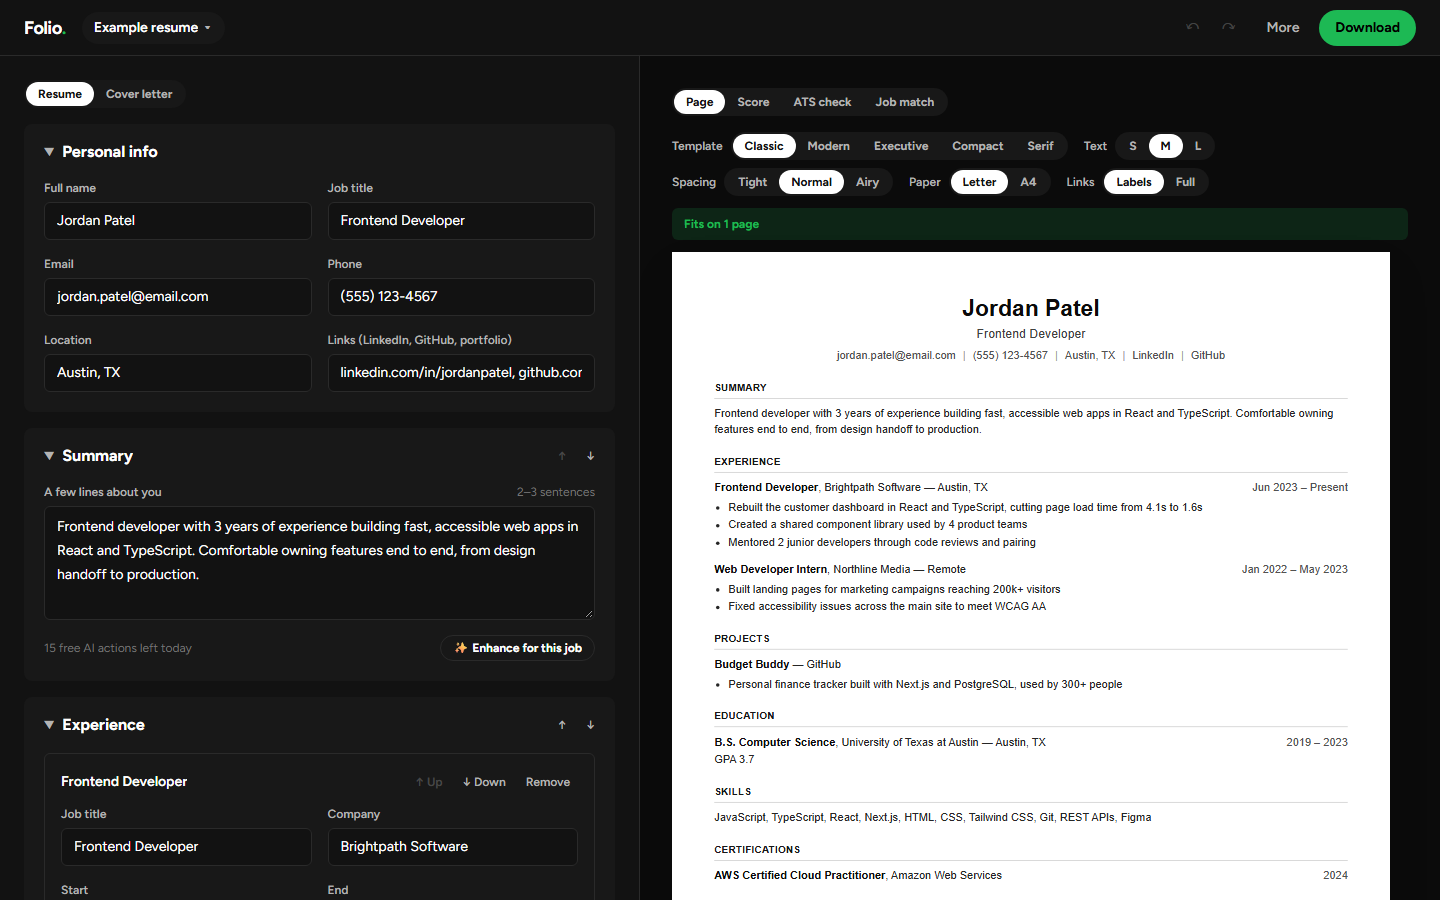
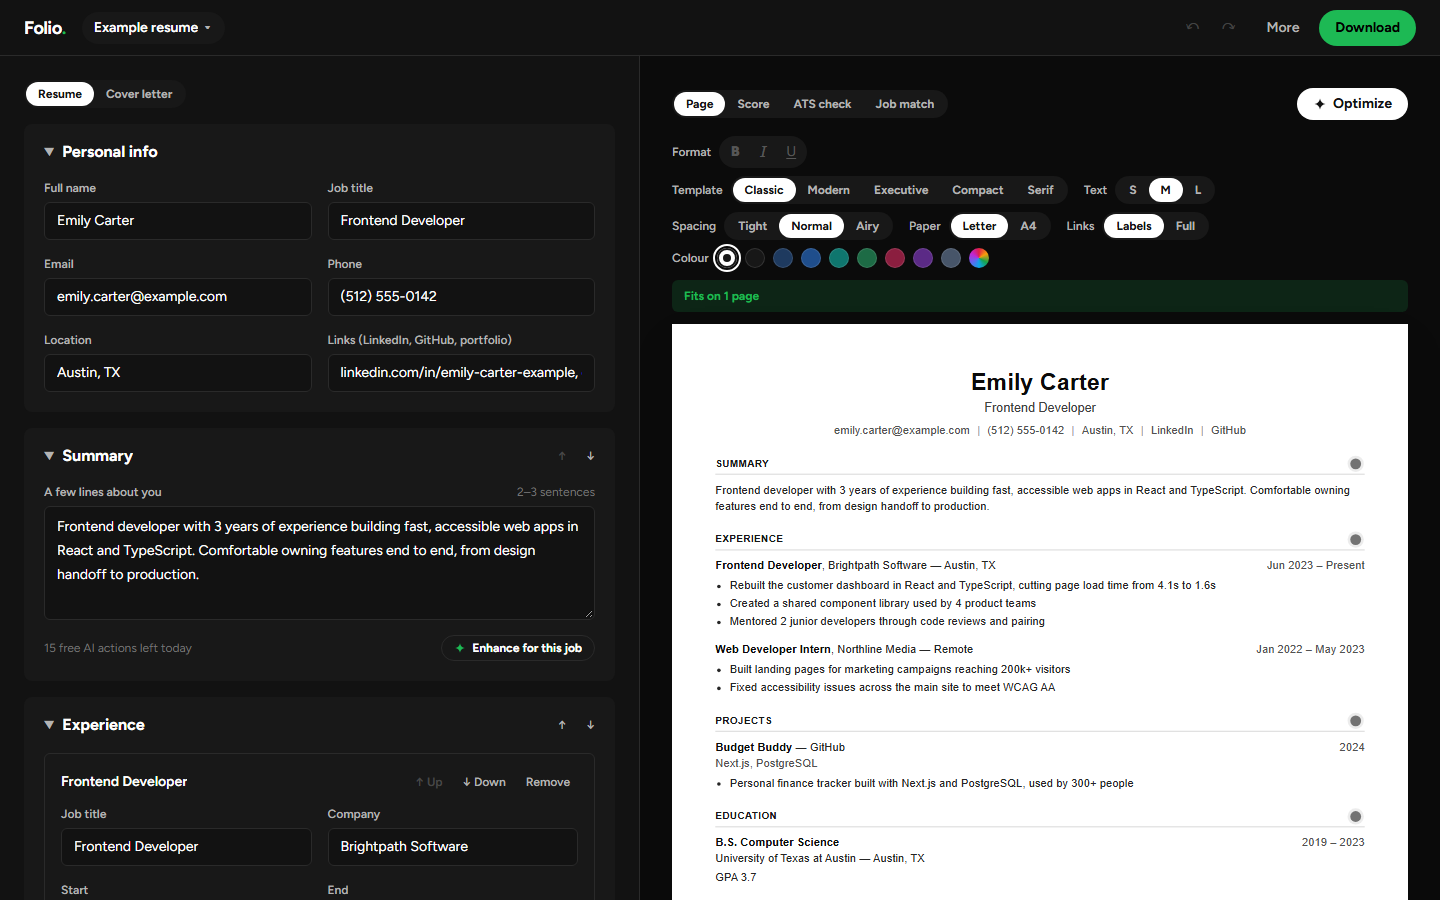
Example resume for a fictional Emily Carter, fresh screenshots, README up to date
- The example person is now Emily Carter, with contact details that can't belong to anyone:
  an example.com email, a 555-01xx phone number and profile links that don't exist
- New home page and README screenshots showing the current editor
- README lists Optimize, editing on the page like Word, heading colours and renamable
  sections, and earlier Enhance versions

diff --git a/lib/links.test.ts b/lib/links.test.ts
@@ -27,24 +27,24 @@ describe("linkKey", () => {
 
 describe("linkHref", () => {
   it("adds https:// when it's missing and keeps it when it's there", () => {
-    expect(linkHref("linkedin.com/in/jordan")).toBe("https://linkedin.com/in/jordan");
-    expect(linkHref("https://github.com/jordan")).toBe("https://github.com/jordan");
+    expect(linkHref("linkedin.com/in/emily")).toBe("https://linkedin.com/in/emily");
+    expect(linkHref("https://github.com/emily")).toBe("https://github.com/emily");
     expect(linkHref("http://old-site.com")).toBe("http://old-site.com");
   });
 });
 
 describe("linkLabel", () => {
   it("names well-known sites", () => {
-    expect(linkLabel("linkedin.com/in/jordan")).toBe("LinkedIn");
-    expect(linkLabel("https://www.linkedin.com/in/jordan-patel-4a7b2c19/")).toBe("LinkedIn");
+    expect(linkLabel("linkedin.com/in/emily")).toBe("LinkedIn");
+    expect(linkLabel("https://www.linkedin.com/in/emily-carter-4a7b2c19/")).toBe("LinkedIn");
     expect(linkLabel("in.linkedin.com/in/ravi")).toBe("LinkedIn");
-    expect(linkLabel("github.com/jordan/budget-buddy")).toBe("GitHub");
-    expect(linkLabel("https://twitter.com/jordan")).toBe("X");
-    expect(linkLabel("kaggle.com/jordan")).toBe("Kaggle");
+    expect(linkLabel("github.com/emily/budget-buddy")).toBe("GitHub");
+    expect(linkLabel("https://twitter.com/emily")).toBe("X");
+    expect(linkLabel("kaggle.com/emily")).toBe("Kaggle");
   });
 
   it("uses the domain name for anything else", () => {
-    expect(linkLabel("jordanpatel.dev")).toBe("jordanpatel.dev");
+    expect(linkLabel("emilycarter.dev")).toBe("emilycarter.dev");
     expect(linkLabel("https://www.budgetbuddy.app/demo")).toBe("budgetbuddy.app");
   });
 
@@ -55,31 +55,31 @@ describe("linkLabel", () => {
 
 describe("splitLinks and linkDisplay", () => {
   it("splits several links in one field", () => {
-    expect(splitLinks("linkedin.com/in/jordan, github.com/jordan  jordan.dev")).toEqual([
-      "linkedin.com/in/jordan",
-      "github.com/jordan",
-      "jordan.dev",
+    expect(splitLinks("linkedin.com/in/emily, github.com/emily  emily.dev")).toEqual([
+      "linkedin.com/in/emily",
+      "github.com/emily",
+      "emily.dev",
     ]);
     expect(splitLinks("")).toEqual([]);
   });
 
   it("shows a full address without https://, www. or a trailing slash", () => {
-    expect(linkDisplay("https://www.linkedin.com/in/jordan/")).toBe("linkedin.com/in/jordan");
+    expect(linkDisplay("https://www.linkedin.com/in/emily/")).toBe("linkedin.com/in/emily");
   });
 });
 
 describe("resumeLinks", () => {
-  const field = "linkedin.com/in/jordan, https://github.com/jordan";
+  const field = "linkedin.com/in/emily, https://github.com/emily";
 
   it("gives short labels that open the full address", () => {
     expect(resumeLinks(field, "label")).toEqual([
-      { text: "LinkedIn", href: "https://linkedin.com/in/jordan" },
-      { text: "GitHub", href: "https://github.com/jordan" },
+      { text: "LinkedIn", href: "https://linkedin.com/in/emily" },
+      { text: "GitHub", href: "https://github.com/emily" },
     ]);
   });
 
   it("can show the full addresses instead", () => {
-    expect(resumeLinks(field, "url").map((l) => l.text)).toEqual(["linkedin.com/in/jordan", "github.com/jordan"]);
+    expect(resumeLinks(field, "url").map((l) => l.text)).toEqual(["linkedin.com/in/emily", "github.com/emily"]);
   });
 });
 

diff --git a/lib/coverletter.test.ts b/lib/coverletter.test.ts
@@ -13,7 +13,7 @@ describe("cover letter", () => {
     const resume = createSampleResume();
     resume.target = { description: "We need React skills", title: "Frontend Engineer", company: "Acme", keywords: [] };
     const request = coverLetterRequest(resume);
-    expect(request.resumeText).toContain("JORDAN PATEL");
+    expect(request.resumeText).toContain("EMILY CARTER");
     expect(request.company).toBe("Acme");
   });
 
@@ -40,15 +40,15 @@ describe("cover letter", () => {
   });
 
   it("joins paragraphs and cleans look-alike characters", () => {
-    const raw = JSON.stringify({ paragraphs: ["Dear Hiring Manager,", "I’m applying for the front‑end role.", "Sincerely,\nJordan"] });
-    expect(parseCoverLetter(raw)).toBe("Dear Hiring Manager,\n\nI'm applying for the front-end role.\n\nSincerely,\nJordan");
+    const raw = JSON.stringify({ paragraphs: ["Dear Hiring Manager,", "I’m applying for the front‑end role.", "Sincerely,\nEmily"] });
+    expect(parseCoverLetter(raw)).toBe("Dear Hiring Manager,\n\nI'm applying for the front-end role.\n\nSincerely,\nEmily");
   });
 
   it("puts the greeting and sign-off in their own paragraphs", () => {
-    const glued = JSON.stringify({ paragraphs: ["Dear Hiring Manager, I am applying.", "Thanks for your time. Sincerely,\nJordan"] });
-    expect(parseCoverLetter(glued)).toBe("Dear Hiring Manager,\n\nI am applying.\n\nThanks for your time.\n\nSincerely,\nJordan");
-    const split = JSON.stringify({ paragraphs: ["Dear Hiring Manager,", "Thanks for your time.\nSincerely,\nJordan"] });
-    expect(parseCoverLetter(split)).toBe("Dear Hiring Manager,\n\nThanks for your time.\n\nSincerely,\nJordan");
+    const glued = JSON.stringify({ paragraphs: ["Dear Hiring Manager, I am applying.", "Thanks for your time. Sincerely,\nEmily"] });
+    expect(parseCoverLetter(glued)).toBe("Dear Hiring Manager,\n\nI am applying.\n\nThanks for your time.\n\nSincerely,\nEmily");
+    const split = JSON.stringify({ paragraphs: ["Dear Hiring Manager,", "Thanks for your time.\nSincerely,\nEmily"] });
+    expect(parseCoverLetter(split)).toBe("Dear Hiring Manager,\n\nThanks for your time.\n\nSincerely,\nEmily");
   });
 
   it("asks the fact-checker to strike unsupported details and keep the rest", () => {

diff --git a/lib/export/pdf.test.tsx b/lib/export/pdf.test.tsx
@@ -19,8 +19,8 @@ describe("resume PDF", () => {
       const { text, totalPages } = await readBack(ResumeDocument({ resume, paper: "letter" }));
 
       expect(totalPages).toBe(1);
-      expect(text).toContain("Jordan Patel");
-      expect(text).toContain("jordan.patel@email.com");
+      expect(text).toContain("Emily Carter");
+      expect(text).toContain("emily.carter@example.com");
       expect(text).toContain("cutting page load time from 4.1s to 1.6s");
       expect(text).toContain("AWS Certified Cloud Practitioner");
 
@@ -81,10 +81,10 @@ describe("links in the PDF", () => {
     expect(text).not.toContain("linkedin.com/in");
     expect(links).toEqual(
       expect.arrayContaining([
-        "mailto:jordan.patel@email.com",
-        "https://linkedin.com/in/jordanpatel",
-        "https://github.com/jordanpatel",
-        "https://github.com/jordanpatel/budget-buddy",
+        "mailto:emily.carter@example.com",
+        "https://linkedin.com/in/emily-carter-example",
+        "https://github.com/emily-carter-example",
+        "https://github.com/emily-carter-example/budget-buddy",
       ]),
     );
   });
@@ -93,17 +93,17 @@ describe("links in the PDF", () => {
     const sample = createSampleResume();
     const resume = { ...sample, style: { ...sample.style, links: "url" as const } };
     const { text } = await readBack(ResumeDocument({ resume, paper: "letter" }));
-    expect(text).toContain("linkedin.com/in/jordanpatel");
+    expect(text).toContain("linkedin.com/in/emily-carter-example");
   });
 });
 
 describe("cover letter PDF", () => {
   it("contains the name and every paragraph", async () => {
     const resume = createSampleResume();
-    resume.coverLetter = "Dear Hiring Manager,\n\nI am applying for the role.\n\nSincerely,\nJordan Patel";
+    resume.coverLetter = "Dear Hiring Manager,\n\nI am applying for the role.\n\nSincerely,\nEmily Carter";
     const { text } = await readBack(CoverLetterDocument({ resume, paper: "letter" }));
     expect(text).toContain("Dear Hiring Manager,");
     expect(text).toContain("I am applying for the role.");
-    expect(text.match(/Jordan Patel/g)?.length).toBe(2);
+    expect(text.match(/Emily Carter/g)?.length).toBe(2);
   });
 });

diff --git a/lib/export/docx.test.ts b/lib/export/docx.test.ts
@@ -18,8 +18,8 @@ describe("Word export", () => {
       const sample = createSampleResume();
       const resume = { ...sample, style: { ...sample.style, template } };
       const text = await wordText(resumeDocx(resume, "letter"));
-      expect(text).toContain("Jordan Patel");
-      expect(text).toContain("jordan.patel@email.com");
+      expect(text).toContain("Emily Carter");
+      expect(text).toContain("emily.carter@example.com");
       expect(text).toContain("Brightpath Software");
       expect(text).toContain("cutting page load time from 4.1s to 1.6s");
       expect(text).toContain("AWS Certified Cloud Practitioner");
@@ -50,13 +50,13 @@ describe("Word export", () => {
     const { default: JSZip } = await import("jszip");
     const zip = await JSZip.loadAsync(await Packer.toBuffer(resumeDocx(createSampleResume(), "letter")));
     const rels = await zip.file("word/_rels/document.xml.rels")!.async("string");
-    expect(rels).toContain('Target="https://linkedin.com/in/jordanpatel"');
-    expect(rels).toContain('Target="https://github.com/jordanpatel/budget-buddy"');
+    expect(rels).toContain('Target="https://linkedin.com/in/emily-carter-example"');
+    expect(rels).toContain('Target="https://github.com/emily-carter-example/budget-buddy"');
   });
 
   it("writes the cover letter paragraphs", async () => {
     const resume = createSampleResume();
-    resume.coverLetter = "Dear Hiring Manager,\n\nI am applying for the role.\n\nSincerely,\nJordan Patel";
+    resume.coverLetter = "Dear Hiring Manager,\n\nI am applying for the role.\n\nSincerely,\nEmily Carter";
     const text = await wordText(coverLetterDocx(resume, "a4"));
     expect(text).toContain("Dear Hiring Manager,");
     expect(text).toContain("I am applying for the role.");

diff --git a/components/builder/Editor.tsx b/components/builder/Editor.tsx
@@ -327,14 +327,14 @@ export default function Editor({
     <div className="space-y-4">
       <Card title="Personal info">
         <div className="grid gap-4 sm:grid-cols-2">
-          <Field label="Full name" value={basics.name} onChange={(v) => setBasics({ name: v })} placeholder="Jordan Patel" />
+          <Field label="Full name" value={basics.name} onChange={(v) => setBasics({ name: v })} placeholder="Emily Carter" />
           <Field label="Job title" value={basics.title} onChange={(v) => setBasics({ title: v })} placeholder="Frontend Developer" />
           <Field
             label="Email"
             type="email"
             value={basics.email}
             onChange={(v) => setBasics({ email: v })}
-            placeholder="you@email.com"
+            placeholder="you@example.com"
             warning={checkEmail(basics.email)}
           />
           <Field
@@ -342,7 +342,7 @@ export default function Editor({
             type="tel"
             value={basics.phone}
             onChange={(v) => setBasics({ phone: v })}
-            placeholder="(555) 123-4567"
+            placeholder="(512) 555-0142"
             warning={checkPhone(basics.phone)}
           />
           <Field label="Location" value={basics.location} onChange={(v) => setBasics({ location: v })} placeholder="Austin, TX" />

diff --git a/lib/server/docx-text.test.ts b/lib/server/docx-text.test.ts
@@ -9,8 +9,8 @@ describe("docxToText", () => {
   it("reads every section of a real Word resume", async () => {
     const buffer = await Packer.toBuffer(resumeDocx(createSampleResume(), "letter"));
     const text = await docxToText(buffer);
-    expect(text).toContain("Jordan Patel");
-    expect(text).toContain("jordan.patel@email.com");
+    expect(text).toContain("Emily Carter");
+    expect(text).toContain("emily.carter@example.com");
     expect(text).toContain("Brightpath Software");
     expect(text).toContain("cutting page load time from 4.1s to 1.6s");
     expect(text).toContain("AWS Certified Cloud Practitioner");
@@ -19,8 +19,8 @@ describe("docxToText", () => {
   it("keeps the address behind a labelled link", async () => {
     const buffer = await Packer.toBuffer(resumeDocx(createSampleResume(), "letter"));
     const text = await docxToText(buffer);
-    expect(text).toContain("LinkedIn (https://linkedin.com/in/jordanpatel)");
-    expect(text).toContain("GitHub (https://github.com/jordanpatel/budget-buddy)");
+    expect(text).toContain("LinkedIn (https://linkedin.com/in/emily-carter-example)");
+    expect(text).toContain("GitHub (https://github.com/emily-carter-example/budget-buddy)");
     expect(text).not.toContain("(mailto:");
   });
 

diff --git a/lib/history.test.ts b/lib/history.test.ts
@@ -9,14 +9,14 @@ function type(history: History<string>, from: string, to: string, at: number) {
 describe("undo history", () => {
   it("undoes one step at a time and keeps earlier work", () => {
     let h = emptyHistory<string>();
-    h = record(h, "", 1000); // "" -> "Jordan"
-    h = record(h, "Jordan", 5000); // "Jordan" -> "Jordan Patel" after a pause
-    h = record(h, "Jordan Patel", 9000); // -> "Jordan Patel, Dev" after another pause
+    h = record(h, "", 1000); // "" -> "Emily"
+    h = record(h, "Emily", 5000); // "Emily" -> "Emily Carter" after a pause
+    h = record(h, "Emily Carter", 9000); // -> "Emily Carter, Dev" after another pause
 
-    const first = undo(h, "Jordan Patel, Dev")!;
-    expect(first.value).toBe("Jordan Patel");
+    const first = undo(h, "Emily Carter, Dev")!;
+    expect(first.value).toBe("Emily Carter");
     const second = undo(first.history, first.value)!;
-    expect(second.value).toBe("Jordan");
+    expect(second.value).toBe("Emily");
     const third = undo(second.history, second.value)!;
     expect(third.value).toBe("");
     expect(undo(third.history, third.value)).toBeNull();

diff --git a/lib/resume.ts b/lib/resume.ts
@@ -199,12 +199,12 @@ export function createSampleResume(): Resume {
 
   return {
     basics: {
-      name: "Jordan Patel",
+      name: "Emily Carter",
       title: "Frontend Developer",
-      email: "jordan.patel@email.com",
-      phone: "(555) 123-4567",
+      email: "emily.carter@example.com",
+      phone: "(512) 555-0142",
       location: "Austin, TX",
-      link: "linkedin.com/in/jordanpatel, github.com/jordanpatel",
+      link: "linkedin.com/in/emily-carter-example, github.com/emily-carter-example",
     },
     summary:
       "Frontend developer with 3 years of experience building fast, accessible web apps in React and TypeScript. Comfortable owning features end to end, from design handoff to production.",
@@ -245,7 +245,7 @@ export function createSampleResume(): Resume {
       {
         id: newId(),
         name: "Budget Buddy",
-        link: "github.com/jordanpatel/budget-buddy",
+        link: "github.com/emily-carter-example/budget-buddy",
         tech: "Next.js, PostgreSQL",
         date: "2024",
         bullets: "Personal finance tracker built with Next.js and PostgreSQL, used by 300+ people",

diff --git a/lib/validate.test.ts b/lib/validate.test.ts
@@ -3,20 +3,20 @@ import { checkDate, checkDateRange, checkEmail, checkLink, checkPhone, parseDate
 
 describe("checkEmail", () => {
   it("accepts real addresses and empty fields", () => {
-    expect(checkEmail("jordan.patel@email.com")).toBeNull();
+    expect(checkEmail("emily.carter@example.com")).toBeNull();
     expect(checkEmail("")).toBeNull();
   });
 
   it("flags things that aren't emails", () => {
-    expect(checkEmail("jordan")).not.toBeNull();
-    expect(checkEmail("jordan@email")).not.toBeNull();
+    expect(checkEmail("emily")).not.toBeNull();
+    expect(checkEmail("emily@email")).not.toBeNull();
     expect(checkEmail("a b@c.com")).not.toBeNull();
   });
 });
 
 describe("checkPhone", () => {
   it("accepts common formats", () => {
-    expect(checkPhone("(555) 123-4567")).toBeNull();
+    expect(checkPhone("(512) 555-0142")).toBeNull();
     expect(checkPhone("+91 98765 43210")).toBeNull();
     expect(checkPhone("555.123.4567")).toBeNull();
   });

diff --git a/lib/ats.test.ts b/lib/ats.test.ts
@@ -9,7 +9,7 @@ function check(resume: ReturnType<typeof createSampleResume>, label: string) {
 describe("resumeToPlainText", () => {
   it("lists sections in page order with standard headings", () => {
     const text = resumeToPlainText(createSampleResume());
-    expect(text.startsWith("JORDAN PATEL\nFrontend Developer")).toBe(true);
+    expect(text.startsWith("EMILY CARTER\nFrontend Developer")).toBe(true);
     const headings = ["SUMMARY", "EXPERIENCE", "PROJECTS", "EDUCATION", "SKILLS", "CERTIFICATIONS"];
     const positions = headings.map((h) => text.indexOf(`\n${h}\n`));
     expect(positions.every((p) => p > 0)).toBe(true);

diff --git a/e2e/builder.spec.ts b/e2e/builder.spec.ts
@@ -27,7 +27,7 @@ test("download, back up, lose everything, and restore it all from the backup", a
   await page.locator("summary", { hasText: "Download" }).click();
   const pdfDownload = page.waitForEvent("download");
   await page.getByText("Best for applying online").click();
-  expect((await pdfDownload).suggestedFilename()).toBe("Jordan-Patel-resume.pdf");
+  expect((await pdfDownload).suggestedFilename()).toBe("Emily-Carter-resume.pdf");
   const reminder = page.getByRole("status");
   await expect(reminder).toContainText("Keep a backup of your resume");
 

diff --git a/e2e/word-editing.spec.ts b/e2e/word-editing.spec.ts
@@ -57,7 +57,7 @@ test("format text on the page like in Word, and it's kept for the downloads", as
   await page.locator("summary", { hasText: "Download" }).click();
   const download = page.waitForEvent("download");
   await page.getByText("Best for applying online").click();
-  expect((await download).suggestedFilename()).toBe("Jordan-Patel-resume.pdf");
+  expect((await download).suggestedFilename()).toBe("Emily-Carter-resume.pdf");
 });
 
 test("Enter, Backspace and Alt+arrows work on bullets like a Word list", async ({ page }) => {
